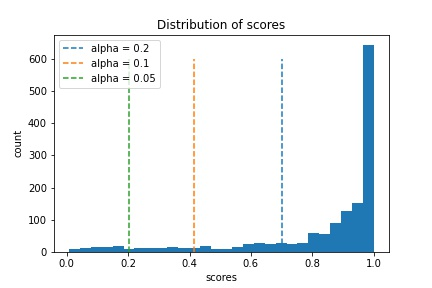
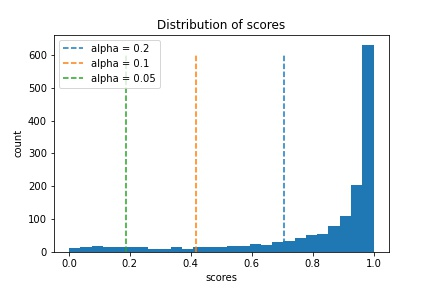
add corrections + data splitted in train/calib

diff --git a/doc/tutorial_classification.rst b/doc/tutorial_classification.rst
@@ -8,19 +8,19 @@ Tutorial
 
 In this tutorial, we compare the prediction sets estimating by :class:`mapie.classification.MapieClassifier`.
 
-Throughout this tutorial, we will answer the following questions:
+Throughout this tutorial, we will answer the following question:
 
-- How does the number of classes in the prediction sets vary according to the significance level alpha values and the conformity scores ?
+How does the number of classes in the prediction sets vary according to the significance level alpha values and the conformity scores ?
 
 1. Conformal Prediction method using the softmax score of the true label
 ========================================================================
 We will use MAPIE to estimate a prediction set of several classes such that the probability that the true label of a new test point is included in the prediction set is always higher than the target confidence level : :math:`1 - \alpha`.
 We start by using the softmax score output by the base classifier as the conformity score on a toy two-dimensional dataset. We estimate the prediction sets as follows :
 
-* First we generate a dataset with train and test and the Model is fitted in the training set.
-* We set the conformal score :math:`Si = f(X_{i})_{yi}` the softmax output of the true class for each sample in the training set.
-* Then we define :math:`q` as being the :math:`(n + 1) (\alpha) / n` previous quantile of :math:`S_{1}, ..., S_{n}` (this is essentially the quantile :math:`\alpha`, but with a small correction). 
-* Finally, for a new test data point (where :math:`X_{n + 1}` is known but :math:`Y_{n + 1}` is not), create a prediction set :math:`T(X_{n+1}) = {y: f(X_{n+1})_{y} > q}` which includes all the classes with a sufficiently high softmax output.
+* First we generate a dataset with train, calibration and test, the model is fitted in the training set.
+* We set the conformal score :math:`S_i = \hat{f}(X_{i})_{y_i}` the softmax output of the true class for each sample in the calibration set.
+* Then we define :math:`\hat{q}` as being the :math:`(n + 1) (\alpha) / n` previous quantile of :math:`S_{1}, ..., S_{n}` (this is essentially the quantile :math:`\alpha`, but with a small sample correction). 
+* Finally, for a new test data point (where :math:`X_{n + 1}` is known but :math:`Y_{n + 1}` is not), create a prediction set :math:`T(X_{n+1}) = \{y: \hat{f}(X_{n+1})_{y} > \hat{q}\}` which includes all the classes with a sufficiently high softmax output.
 
 We use a two-dimensional dataset with three labels. The distribution of the data is a bivariate normal with diagonal covariance matrices for each label. 
 
@@ -34,11 +34,12 @@ We use a two-dimensional dataset with three labels. The distribution of the data
     n_classes = 3
     alpha = [0.2, 0.1, 0.05]
     np.random.seed(42)
-    X_train = np.vstack([
+    X = np.vstack([
         np.random.multivariate_normal(center, cov, n_samples)
         for center, cov in zip(centers, covs)
     ])
-    y_train = np.hstack([np.full(n_samples, i) for i in range(n_classes)])
+    y = np.hstack([np.full(n_samples, i) for i in range(n_classes)])
+    X_train, X_cal, y_train, y_cal = train_test_split(X, y, test_size=0.5)
 
     xx, yy = np.meshgrid(
         np.arange(x_min, x_max, step), np.arange(x_min, x_max, step)
@@ -68,7 +69,7 @@ Let's see our training data
 .. image:: images/tuto_classification_1.jpeg
     :align: center
 
-We fit our training data with a Gaussian Naive Base estimator. And then we apply :class:`mapie.classification.MapieClassifier` with the method ``score`` to the estimator indicating that it has already been fitted with `cv="prefit"`.
+We fit our training data with a Gaussian Naive Base estimator. And then we apply :class:`mapie.classification.MapieClassifier` in the calibration data with the method ``score`` to the estimator indicating that it has already been fitted with `cv="prefit"`.
 We then estimate the prediction sets with differents alpha values with a
 ``fit`` and ``predict`` process. 
 
@@ -82,8 +83,8 @@ We then estimate the prediction sets with differents alpha values with a
    y_pred_proba = clf.predict_proba(X_test)
    y_pred_proba_max = np.max(y_pred_proba, axis=1)
    mapie = MapieClassifier(estimator=clf, cv="prefit")
-   mapie.fit(X_train, y_train)
-   y_pred_mapie, y_ps_mapie = nb_mapie.predict(X_test, alpha=alphas)
+   mapie.fit(X_cal, y_cal)
+   y_pred_mapie, y_ps_mapie = mapie.predict(X_test, alpha=alpha)
 
 
 * y_pred_mapie: represents the prediction in the test set by the base estimator.
